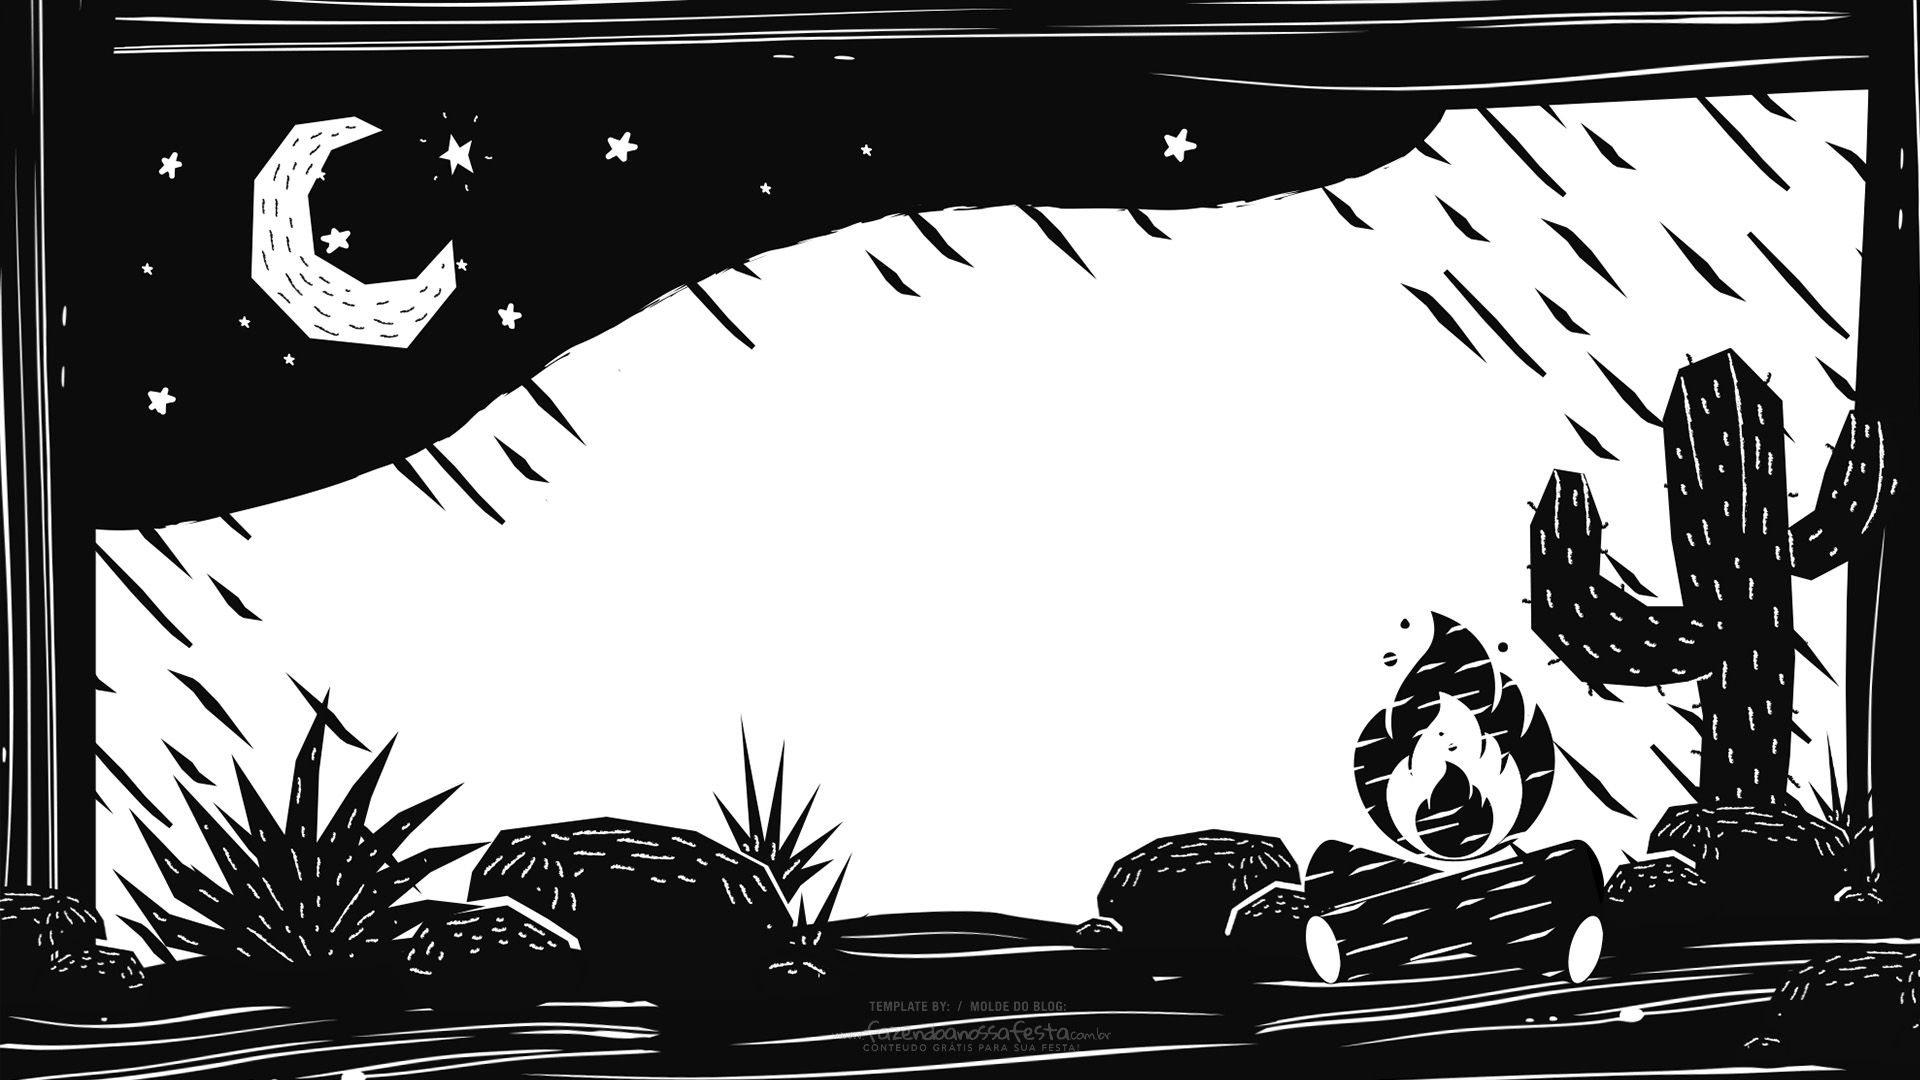
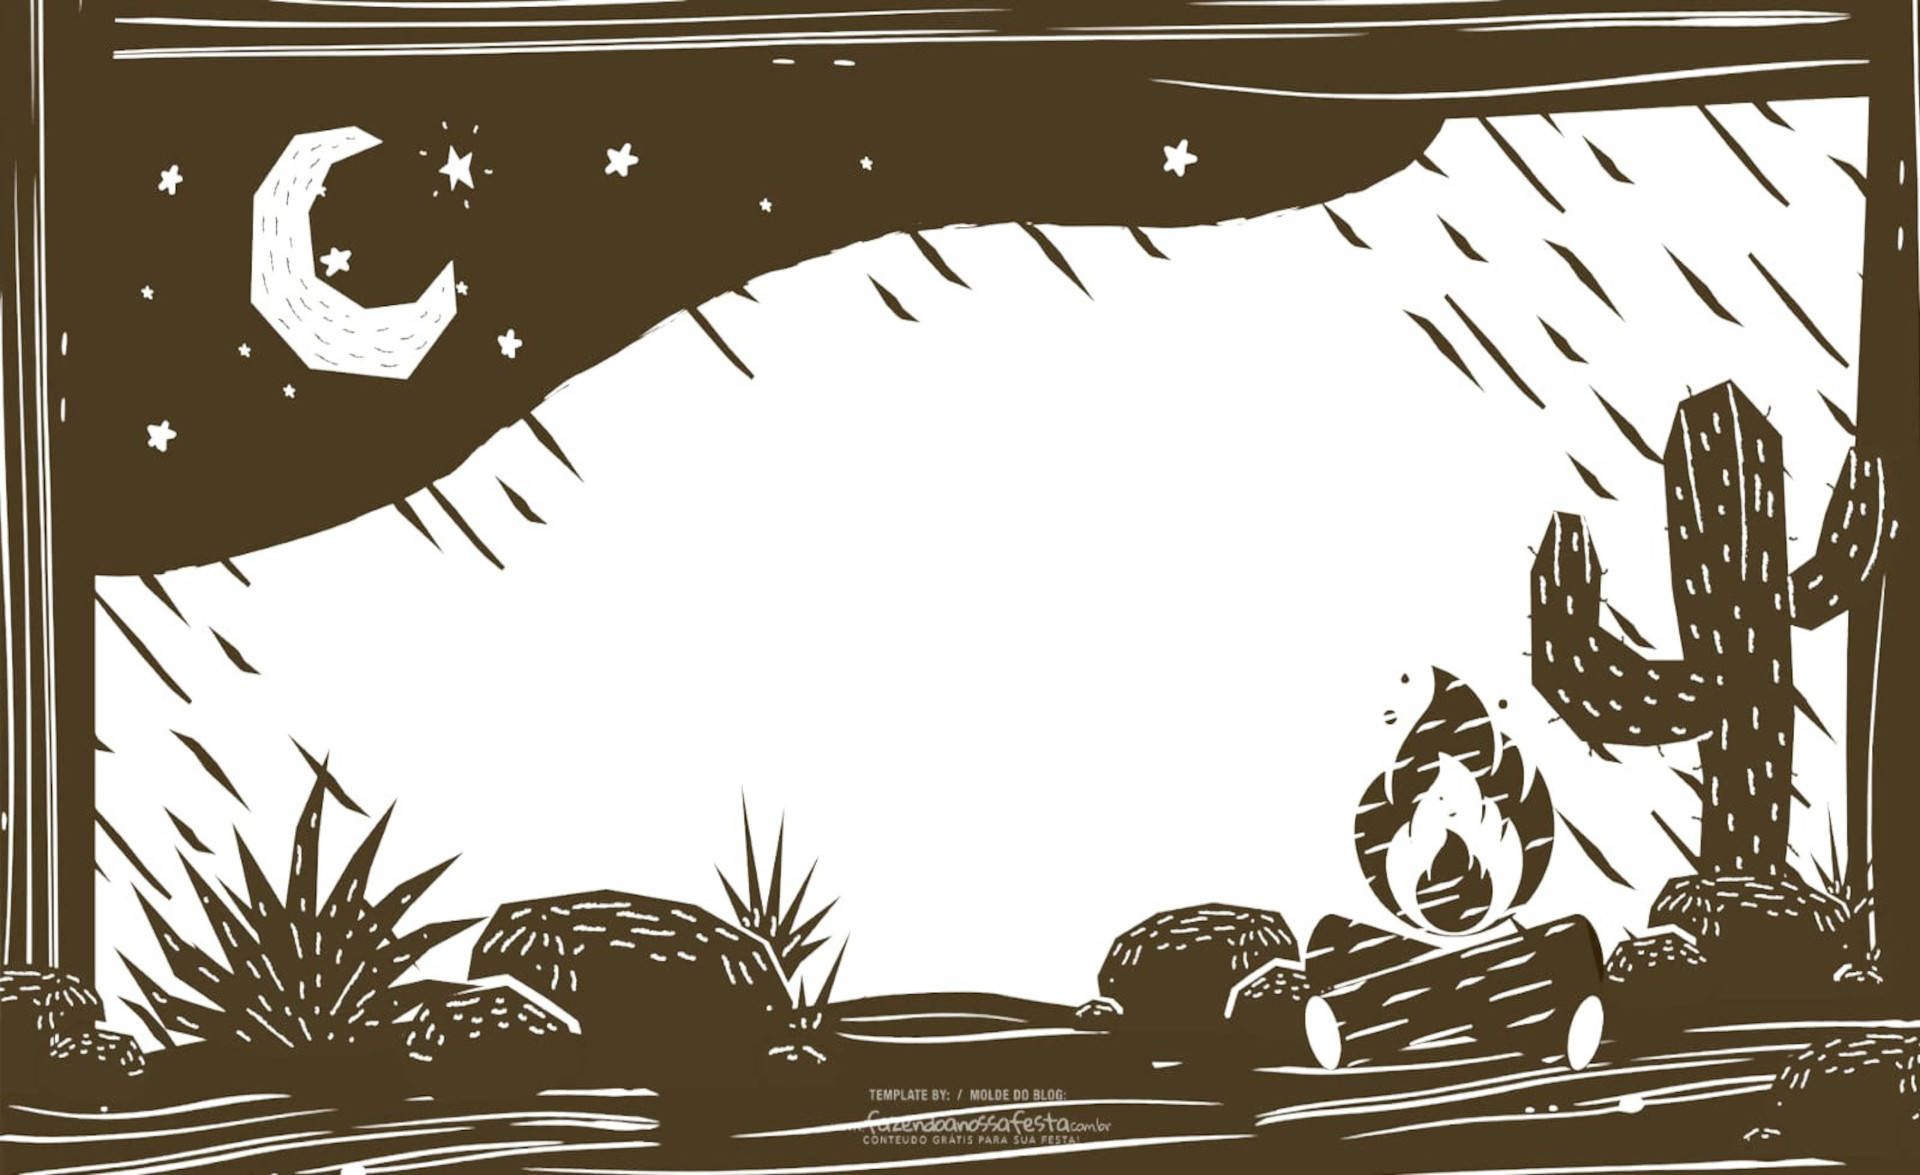
site pronto

diff --git a/style.css b/style.css
@@ -9,19 +9,21 @@
 }
 
 :root{
-    --colors: #613a4291;
-    --color: #DBAFB8;
-    --colort:#221a1c;
+    --trans:#2a2014d3;
+    --cor0:#2a2014;
+    --cor1:#59442A;
+    --cor2:#8C7E6D;
+    --cor3:#e4ded8;
     --titulo:'co1',Courier,sans-serif;
     --texto:'co2',Courier,sans-serif;
 }
 
 body{
     margin: 0px;
-    background-color: var(--color);
+    background-color: var(--cor3);
 }
 header{
-    background:black left top no-repeat fixed;
+    background:var(--cor0) left top no-repeat fixed;
 }
 header > h1{
     margin: 0px;
@@ -29,45 +31,74 @@ header > h1{
     font-size: max(38px,6vw);
     text-align: center;
     font-weight: normal;
-    color: white;
+    color: var(--cor3);
     padding: 28px 0px 0px 0px;
 }
 header > h2{
     margin: 0px;
     font:normal normal 1em Arial;
     text-align: center;
-    color: white;
+    color: var(--cor3);
     padding: 18px 0px 23px 0px;
     font-size:max(15px, 1.4vw);
 }
 header a{
  
  text-decoration: none;
- color:white;
+ color: var(--cor3);
 }
 header a:hover{ 
   text-decoration: underline;
   font-weight: bolder;
+  color: white;
 }
 section p{
     font-size:max(1.3em , 2vw);
     font-family: var(--texto);
-    color:var(--colort);
+    color:var(--cor1);
     
 }
-section.i{
-    background: gray url(imagens/tema.jpg) left top no-repeat fixed;
+section.cordel{
+    background: rgba(128, 128, 128, 0) url(imagens/tema.jpg) center right  no-repeat fixed;
     background-size:cover;
     padding: 15px 0px 20px 0px;
+    box-shadow: inset 0px 2px 5px 0px var(--trans);
+}
+section.livro{
+    background: rgba(128, 128, 128, 0) url(imagens/cordel.jpg) center right  no-repeat fixed;
+    background-size:cover;
+    padding: 15px 0px 20px 0px;
+    box-shadow: inset 0px 3px 5px 0px var(--trans);
 }
 section p{
     margin-left: 12px;
-    margin-bottom: 5px;
+    margin-bottom: 35px;
+    margin-top: 35px;
     width:max(230px,25%);
-    padding: 0px 10px 35px 5px ; 
+    padding: 0px 10px 5px 5px ; 
 }
 section p.opaco{
-    background-color: var(--colors);
-    color:rgb(255, 255, 255);
+    background-color: var(--trans);
+    color: var(--cor3);
+    border-radius: 10px;
     
+}
+footer{
+    text-align: center;
+    color: var(--cor3);
+    font-family: var(--texto);
+    background-color: var(--cor0);
+}
+footer p{
+    margin: 0px;
+    padding: 0px;   
+}
+footer a{
+    text-decoration: none;
+    color: var(--cor3);
+}
+footer a:hover{ 
+ text-decoration: underline;
+ color: white;
+
 }

diff --git a/index.html b/index.html
@@ -25,7 +25,7 @@
               Vou dizer tudo em poesia.
             </p>
           </section>
-          <section class="i">
+          <section class="cordel">
             <p class="opaco">
               Não é mais como era antes
               <br>
@@ -67,7 +67,7 @@
               Decifre esse rabisco.
             </p>
           </section>
-          <section class="i">
+          <section class="livro">
             <p class="opaco" >
               Tenho saudade das cartas<br>
               Escritas com a própria mão<br>
@@ -102,7 +102,7 @@
         </article>
     </main>
     <footer>
-
+        <p>site criado pelo gostoso do <a href="https://github.com/GabrielDiasFelipe">GabrielDias</a>, Tmj!</p>
     </footer>
 </body>
 </html>
